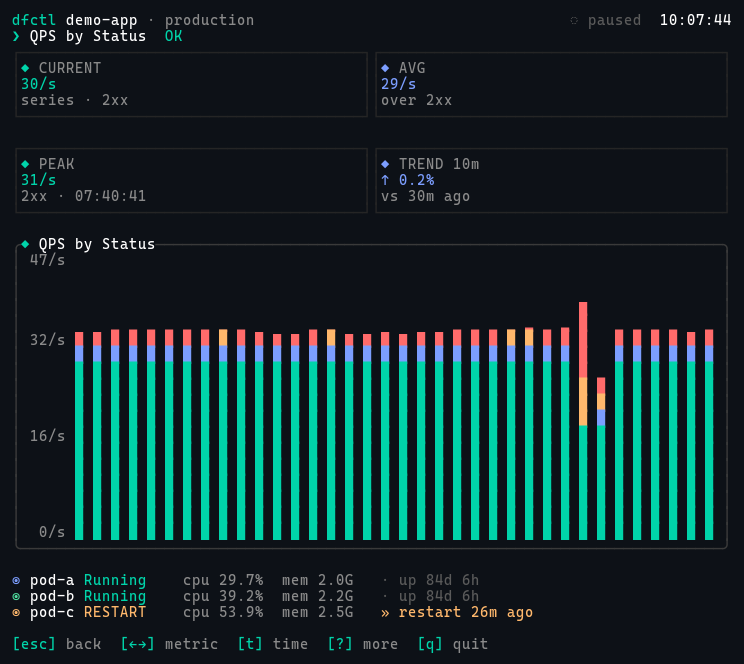
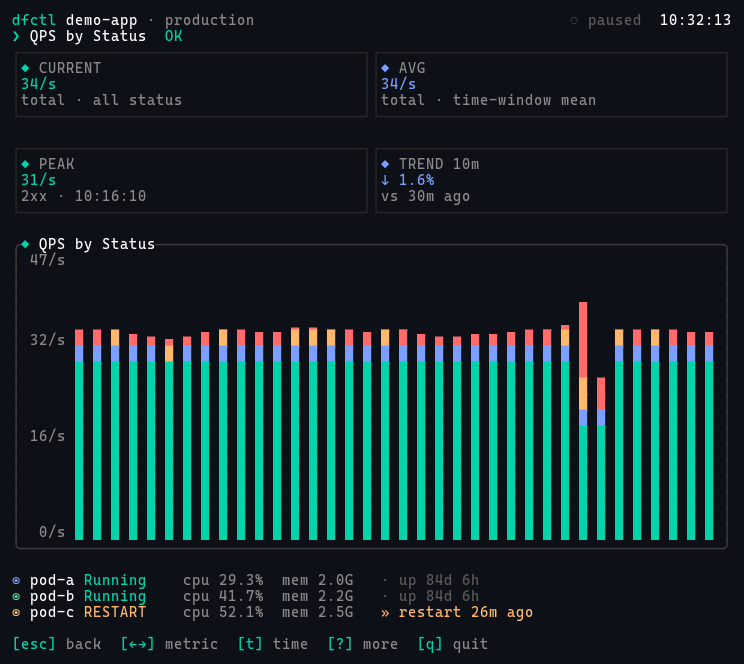
phase-8: QPS KPI semantics — total traffic, not just 2xx
Self-review caught: QPS detail page showed CURRENT 30/s · series · 2xx and
AVG 29/s · over 2xx — both were sampling just the first series (2xx). The
right headline for a status-coded metric is the sum across all status codes
(total traffic), with the same time-window mean for AVG.

 - derive_current: when any series has SeriesKind::StatusCode, sum across
   all status series and label "total · all status"
 - derive_avg: same fallback for QPS — average the per-timestamp sums

PEAK keeps single-series semantics (worst-case spike on any one code) and
TREND walks the primary aggregate; both still match user intuition.

No new complexity — same function bodies with one extra branch each.

diff --git a/src/commands/monitor/render/helpers.rs b/src/commands/monitor/render/helpers.rs
@@ -118,15 +118,26 @@ pub fn kpi_format(v: f64, unit: &str) -> String {
 }
 
 pub fn derive_current(md: &MetricData) -> (f64, String) {
-    // For percentile metrics (latency) the "current" headline is P95 — P99 is
-    // alarmist and dominated by tail outliers; P95 reflects the typical slow
-    // user. Falls through to P99 / max / first if no P95 is available.
+    // Status-coded metrics (QPS by status) → headline is the SUM of all
+    // status series (total traffic), not just 2xx. "series · 2xx" was
+    // misleading — users want to see overall RPS first.
+    if md.series.iter().any(|s| matches!(s.kind, SeriesKind::StatusCode(_))) {
+        let total: f64 = md
+            .series
+            .iter()
+            .filter(|s| matches!(s.kind, SeriesKind::StatusCode(_)))
+            .map(|s| s.current())
+            .sum();
+        return (total, "total · all status".into());
+    }
+    // Latency: P95 headline (less alarmist than P99).
     if let Some(p95) = md.series.iter().find(|s| matches!(s.kind, SeriesKind::Percentile(95))) {
         return (p95.current(), "P95 · now".into());
     }
     if let Some(p99) = md.series.iter().find(|s| matches!(s.kind, SeriesKind::Percentile(99))) {
         return (p99.current(), "P99 · now".into());
     }
+    // CPU/Memory: "max" aggregate + which pod hits it.
     if let Some(max_s) = md.series.iter().find(|s| s.label == "max") {
         let v = max_s.current();
         let owner = md
@@ -145,7 +156,26 @@ pub fn derive_current(md: &MetricData) -> (f64, String) {
 }
 
 pub fn derive_avg(md: &MetricData, metric: MetricKind) -> (f64, String) {
-    // Pick the right series to average:
+    // Status-coded metrics (QPS): average of total traffic over the window —
+    // sum across status codes for each timestamp, then average those totals.
+    if matches!(metric, MetricKind::Qps)
+        && md.series.iter().any(|s| matches!(s.kind, SeriesKind::StatusCode(_)))
+    {
+        let status_series: Vec<&Series> = md
+            .series
+            .iter()
+            .filter(|s| matches!(s.kind, SeriesKind::StatusCode(_)))
+            .collect();
+        let n_points = status_series.first().map(|s| s.points.len()).unwrap_or(0);
+        if n_points > 0 {
+            let mean: f64 = (0..n_points)
+                .map(|i| status_series.iter().map(|s| s.points[i].1).sum::<f64>())
+                .sum::<f64>()
+                / n_points as f64;
+            return (mean, "total · time-window mean".into());
+        }
+    }
+    // Pick the right series to average for other metrics:
     //  - Latency → P95 (matches CURRENT card / panel headline)
     //  - Anything with an "avg" series → use that aggregate
     //  - Otherwise → first non-pod series
